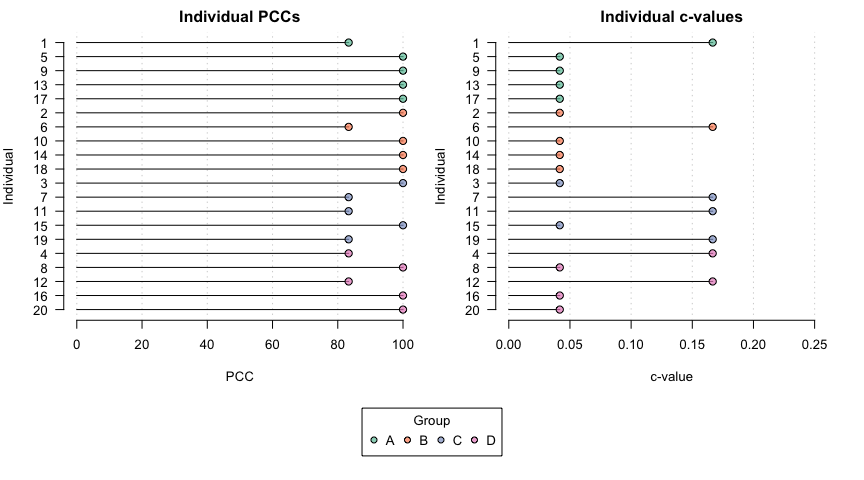
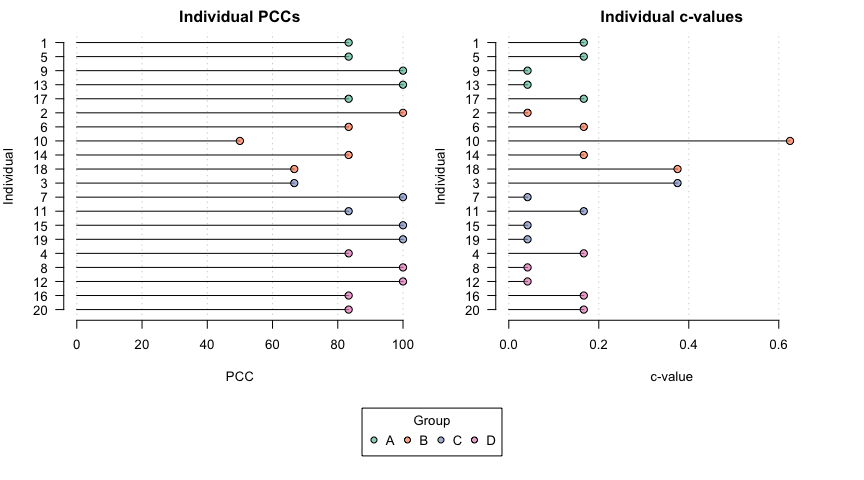
Updated readme

diff --git a/README.md b/README.md
@@ -94,10 +94,6 @@ h <- c(1, 2, 4, 3)
 The hypothesis can be visualized with the `plot_hypothesis()` function:
 
 ``` r
-# set plot colors
-palette("Set 2")
-palette(adjustcolor(palette(), alpha.f = 0.7))
-
 plot_hypothesis(h)
 ```
 
@@ -114,26 +110,26 @@ dat <- data.frame(t1 = rnorm(20, mean = 12, sd = 2),
                   
 round(dat, 2)
 #>       t1    t2    t3    t4
-#> 1   9.64 15.84 16.86 21.26
-#> 2  14.77 15.81 21.67 17.75
-#> 3  13.38 17.07 21.45 19.26
-#> 4  12.92 11.64 19.02 17.92
-#> 5  12.91 16.66 22.19 19.64
-#> 6  11.49 14.64 18.51 12.64
-#> 7  13.80 14.05 21.39 13.93
-#> 8   8.31 10.63 21.97 21.72
-#> 9   9.38 16.60 20.70 18.98
-#> 10  9.14 14.86 21.19 17.94
-#> 11 13.40 17.08 20.94 15.87
-#> 12 13.79 13.20 22.21 18.79
-#> 13 10.11 11.30 19.53 17.81
-#> 14 12.88 14.09 19.03 15.75
-#> 15 10.35 13.84 19.63 17.94
-#> 16 10.91 16.18 25.01 19.22
-#> 17 10.86 15.09 19.67 17.92
-#> 18 11.69 16.57 18.15 17.20
-#> 19 13.82 16.96 19.64 19.67
-#> 20 11.47 15.09 20.72 18.37
+#> 1  10.30 17.68 22.79 16.98
+#> 2  11.01 12.34 21.46 15.73
+#> 3  15.45 15.87 18.78 14.57
+#> 4   6.10 16.49 21.00 21.17
+#> 5   7.83 15.41 17.04 14.45
+#> 6  14.26 14.04 19.71 15.58
+#> 7  15.70 15.89 19.02 18.21
+#> 8  12.98 14.22 19.04 16.77
+#> 9  11.93 16.17 19.90 17.25
+#> 10  8.20 19.70 17.78 19.54
+#> 11 10.59 15.70 16.82 15.19
+#> 12 11.29 17.01 20.78 18.70
+#> 13 13.38 13.46 18.22 17.23
+#> 14 11.04 13.62 22.78 11.61
+#> 15 10.36 13.13 18.25 17.31
+#> 16 13.32 15.97 19.11 14.05
+#> 17 12.30 10.31 20.70 15.96
+#> 18 16.19 14.34 17.31 15.68
+#> 19 13.75 14.57 16.93 16.56
+#> 20 12.92 17.02 18.55 14.13
 ```
 
 An ordinal pattern analysis model to consider how the hypothesis `h`
@@ -151,30 +147,30 @@ summary(opamod)
 #> 
 #> Between subjects results:
 #>          PCC cval
-#> pooled 94.17 0.09
+#> pooled 86.67 0.16
 #> 
 #> Within subjects results:
 #>       PCC cval
 #> 1   83.33 0.17
 #> 2  100.00 0.04
-#> 3  100.00 0.04
+#> 3   66.67 0.38
 #> 4   83.33 0.17
-#> 5  100.00 0.04
+#> 5   83.33 0.17
 #> 6   83.33 0.17
-#> 7   83.33 0.17
+#> 7  100.00 0.04
 #> 8  100.00 0.04
 #> 9  100.00 0.04
-#> 10 100.00 0.04
+#> 10  50.00 0.62
 #> 11  83.33 0.17
-#> 12  83.33 0.17
+#> 12 100.00 0.04
 #> 13 100.00 0.04
-#> 14 100.00 0.04
+#> 14  83.33 0.17
 #> 15 100.00 0.04
-#> 16 100.00 0.04
-#> 17 100.00 0.04
-#> 18 100.00 0.04
-#> 19  83.33 0.17
-#> 20 100.00 0.04
+#> 16  83.33 0.17
+#> 17  83.33 0.17
+#> 18  66.67 0.38
+#> 19 100.00 0.04
+#> 20  83.33 0.17
 #> 
 #> PCCs were calculated for pairwise ordinal relationships using a difference threshold of 0.
 #> Chance-values were calculated using the exact method.
@@ -198,17 +194,17 @@ produced by a call to `opa()`:
 condition_comparisons <- compare_conditions(opamod)
 
 condition_comparisons$pccs
-#>     1   2  3 4
-#> 1   -   -  - -
-#> 2  90   -  - -
-#> 3 100 100  - -
-#> 4 100  85 90 -
+#>     1  2  3 4
+#> 1   -  -  - -
+#> 2  85  -  - -
+#> 3 100 95  - -
+#> 4  90 60 90 -
 condition_comparisons$cvals
-#>      1     2    3 4
-#> 1    -     -    - -
-#> 2 0.55     -    - -
-#> 3  0.5   0.5    - -
-#> 4  0.5 0.575 0.55 -
+#>       1     2    3 4
+#> 1     -     -    - -
+#> 2 0.575     -    - -
+#> 3   0.5 0.525    - -
+#> 4  0.55   0.7 0.55 -
 ```
 
 ### Multiple groups
@@ -232,33 +228,33 @@ summary(opamod2)
 #> 
 #> Between subjects results:
 #>     PCC cval
-#> A 96.67 0.07
-#> B 96.67 0.07
-#> C 90.00 0.12
-#> D 93.33 0.09
+#> A 90.00 0.12
+#> B 76.67 0.28
+#> C 90.00 0.13
+#> D 90.00 0.12
 #> 
 #> Within subjects results:
 #>   Individual    PCC cval
 #> A          1  83.33 0.17
-#> A          5 100.00 0.04
+#> A          5  83.33 0.17
 #> A          9 100.00 0.04
 #> A         13 100.00 0.04
-#> A         17 100.00 0.04
+#> A         17  83.33 0.17
 #> B          2 100.00 0.04
 #> B          6  83.33 0.17
-#> B         10 100.00 0.04
-#> B         14 100.00 0.04
-#> B         18 100.00 0.04
-#> C          3 100.00 0.04
-#> C          7  83.33 0.17
+#> B         10  50.00 0.62
+#> B         14  83.33 0.17
+#> B         18  66.67 0.38
+#> C          3  66.67 0.38
+#> C          7 100.00 0.04
 #> C         11  83.33 0.17
 #> C         15 100.00 0.04
-#> C         19  83.33 0.17
+#> C         19 100.00 0.04
 #> D          4  83.33 0.17
 #> D          8 100.00 0.04
-#> D         12  83.33 0.17
-#> D         16 100.00 0.04
-#> D         20 100.00 0.04
+#> D         12 100.00 0.04
+#> D         16  83.33 0.17
+#> D         20  83.33 0.17
 #> 
 #> PCCs were calculated for pairwise ordinal relationships using a difference threshold of 0.
 #> Chance-values were calculated using the exact method.
